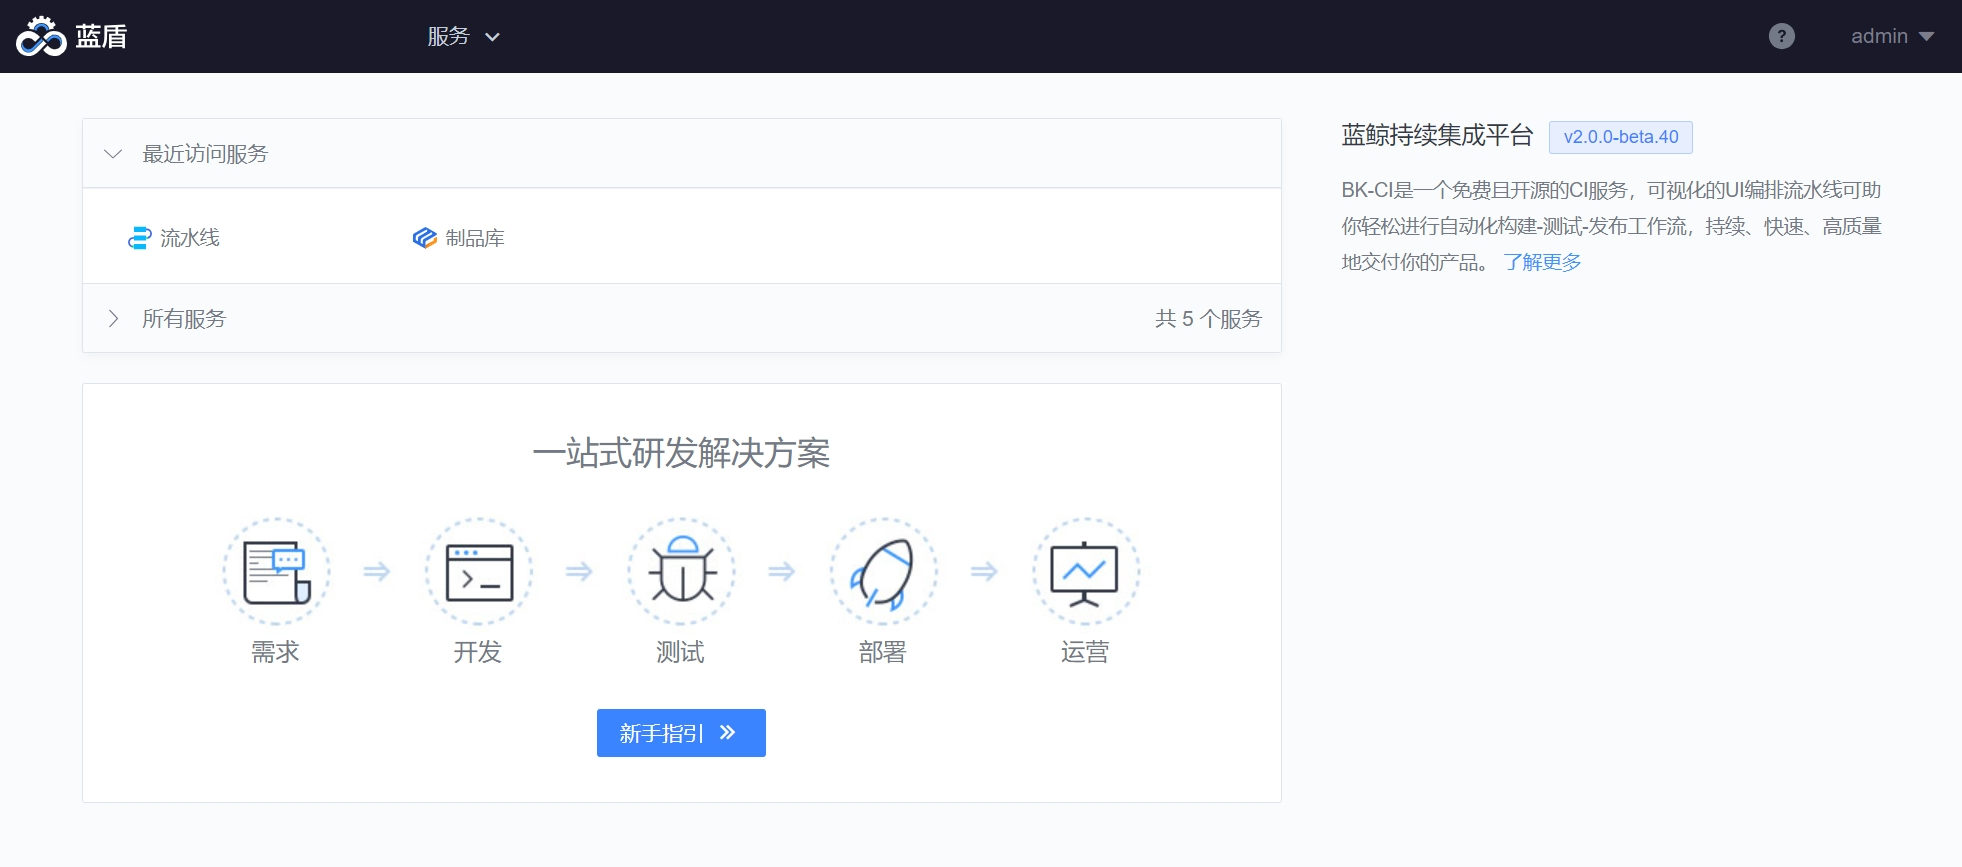
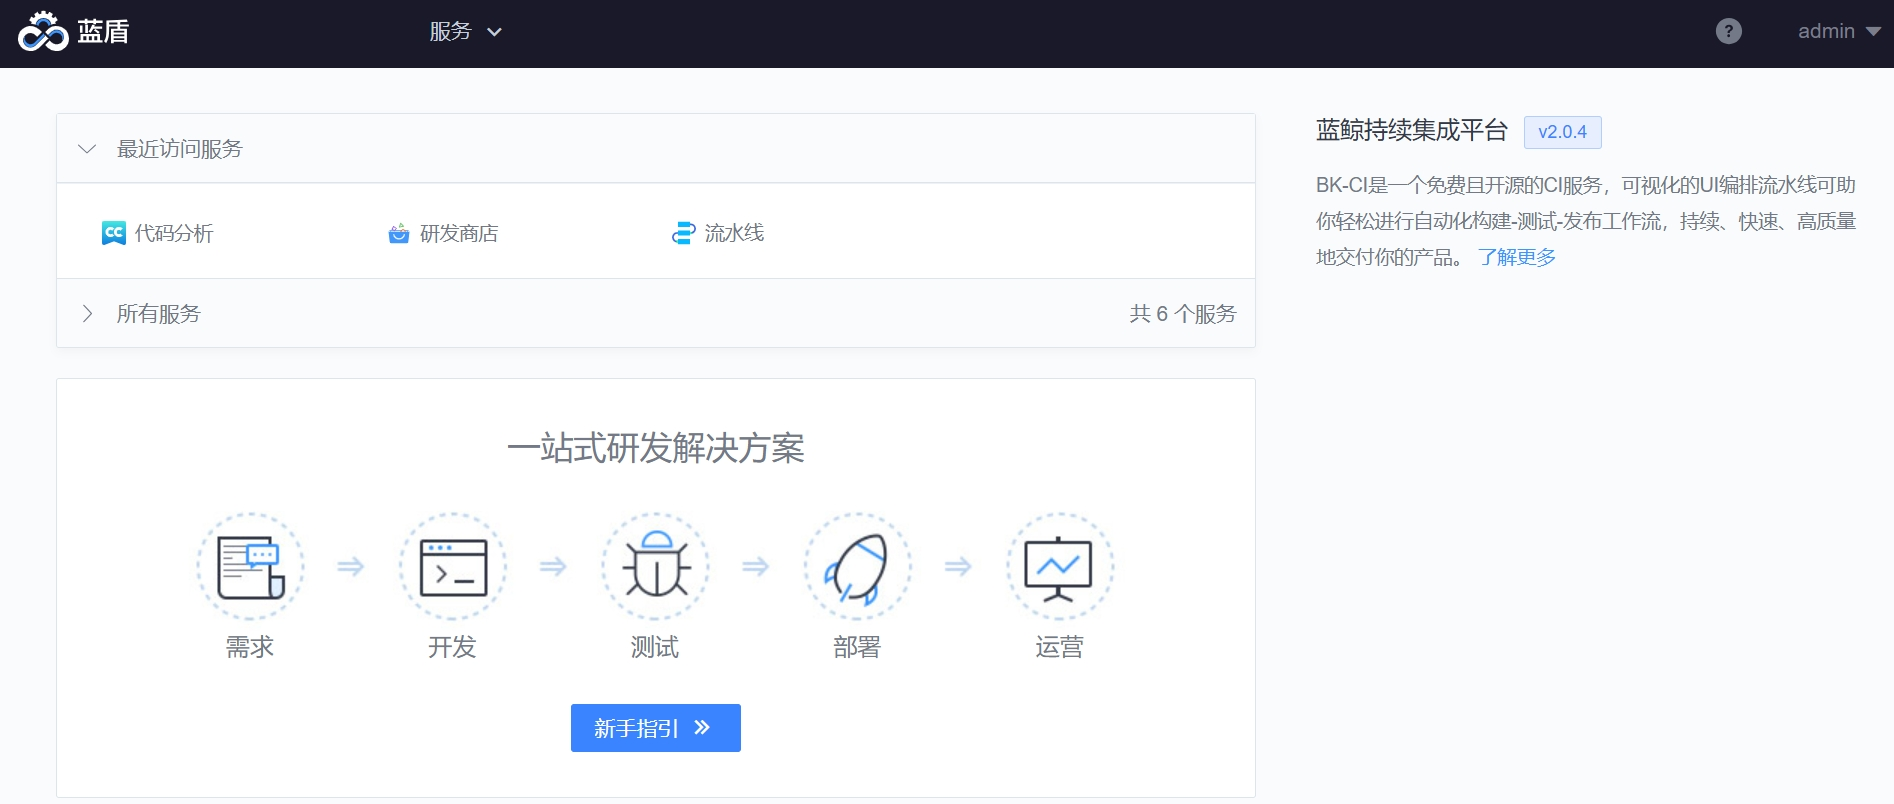
sync github prod-community

diff --git a/ZH/DeploymentGuides/6.2/InstallEnhancePackage/DeployAndInstall/CI-start-V2.md b/ZH/DeploymentGuides/6.2/InstallEnhancePackage/DeployAndInstall/CI-start-V2.md
@@ -4,7 +4,7 @@
 
 本文档适用于在蓝鲸社区版基础套餐中加装蓝鲸持续集成套餐。
 
-蓝鲸持续集成套餐分为 流水线（CI，也称为“蓝盾”）、制品库（Repo）等 2 个系统。
+蓝鲸持续集成套餐分为 流水线（CI，也称为“蓝盾”）、制品库（Repo）、代码检查（CodeCC）等 3 个系统。
 
 ## 流水线（CI）
 ### 资源准备
@@ -72,22 +72,23 @@ IP2 ci(dockerhost)
 部署流程中，会自动在中控机联网下载资源，如果中控机网络受限，可自行下载后传输到预期路径。 
 
 资源列表如下：
-1. CI 安装包（以 `v2.0.0-beta.40` 为例，其他版本请自行替换版本号）：
-  * 预期放置路径： `/data/src/bkci-v2.0.0-beta.40-slim.tar.gz`
-  * 参考下载地址（蓝鲸官网）： https://bkopen-1252002024.file.myqcloud.com/bkci/bkci-v2.0.0-beta.40-slim.tar.gz
-  * 参考下载地址（GitHub）： https://github.com/Tencent/bk-ci/releases/download/v2.0.0-beta.40/bkci-slim.tar.gz （注意修改为预期放置路径的文件名）
+1. CI 安装包（以 `v2.0.4` 为例，其他版本请自行替换版本号）：
+  * 预期放置路径： `/data/src/bkci-v2.0.4-slim.tar.gz`
+  * 参考下载地址（蓝鲸官网）： [bkci-v2.0.4-slim.tar.gz](https://bkopen-1252002024.file.myqcloud.com/bkci/bkci-v2.0.4-slim.tar.gz)，此文件的 MD5 值为：`ca1dbb2bbe493ca640969c39424ca4b6`
+  * 参考下载地址（GitHub）： [bkci-v2.0.4-slim.tar.gz](https://github.com/TencentBlueKing/bk-ci/releases/download/v2.0.4/bkci-slim.tar.gz) （注意修改为预期放置路径的文件名）
 2. rabbitmq_delayed_message_exchange 插件 （版本固定，不能修改）：
  * 预期放置路径: `/data/src/rabbitmq_delayed_message_exchange-3.8.0.ez`
- * 参考下载地址： https://github.com/rabbitmq/rabbitmq-delayed-message-exchange/releases/download/v3.8.0/rabbitmq_delayed_message_exchange-3.8.0.ez
+ * 参考下载地址： [rabbitmq_delayed_message_exchange-3.8.0.ez](https://github.com/rabbitmq/rabbitmq-delayed-message-exchange/releases/download/v3.8.0/rabbitmq_delayed_message_exchange-3.8.0.ez)
 
 ### 快速部署 BKCI
 1. **导入标准运维流程模板**
 
-进入“标准运维”，选择《`蓝鲸`》业务，导入 [部署流程模板](https://bkopen-1252002024.file.myqcloud.com/bkci/bk-ci-deploy-20240219.dat) 。
+进入“标准运维”，选择《`蓝鲸`》业务，导入 [部署流程模板](https://bkopen-1252002024.file.myqcloud.com/bkci/bkci-deploy-202411111447.dat) 。
 2. **执行部署**
 
+
 选择 " [蓝鲸持续集成] [CI]部署或升级流水线” 模板新建任务
->填写蓝鲸中控机 IP 及版本号。版本号填写 **v2.0.0-beta.40**
+>填写蓝鲸中控机 IP 及版本号。版本号填写 **v2.0.4**
 流程中会自动下载重命名安装包，也可手动下载安装包，并传输到中控机上，确保文件路径为 /data/src/bkci-版本号-slim.tar.gz，可自动跳过下载步骤。
 如果出现异常，请查看具体步骤的报错，故障排除后可直接重试对应的步骤。
 
@@ -110,53 +111,48 @@ IP2 ci(dockerhost)
 * [日常维护](../../../../../ZH/DeploymentGuides/6.2/EnhancePackageMaintenance/BKCI/Maintenance.md)
 * [私有构建机方案](../../../../../ZH/DeploymentGuides/6.2/EnhancePackageMaintenance/BKCI/Private-build-setup.md)
 
+## 蓝盾制品库 Repo 部署指南
 
-## 蓝盾制品库Repo部署指南
+本章节适用于在蓝鲸社区版（二进制方式部署）6.2版本 基础套餐中加装蓝鲸持续集成-制品库（Repo）服务
 
+### 资源准备
 
-### 概述
-本文档适用于在蓝鲸社区版（二进制方式部署）6.2版本 基础套餐中加装蓝鲸持续集成-制品库（Repo）服务
-
-### 制品库（Repo）版本部署
-
-#### 资源准备
-
-请按照如下清单准备服务器或虚拟机（暂不支持容器），用于正式部署Repo服务。要求如下
+请按照如下清单准备服务器或虚拟机（暂不支持容器），用于正式部署 Repo 服务。要求如下
 
 - 机器数量： 2（请勿复用蓝鲸基础套餐机器）
 - 要求操作系统： CentOS 7.X （请勿使用其他系统）
 - 建议硬件配置：8 核 16GB （测试环境可使用 8GB 内存，性能略低）
 - 磁盘大小：100GB
 
-#### 准备工作
+### 准备工作
 
-##### 蓝鲸组件依赖
+#### 蓝鲸组件依赖
 
 请先安装蓝鲸社区版 6.2 基础环境。并安装 “权限中心”，“节点管理”，“标准运维”等 SaaS （安装完成可在蓝鲸工作台“应用列表”中看到）。
 
-##### 描述部署拓扑
+#### 描述部署拓扑
 
 - 编辑 install.config，指示 repo 的安装拓扑。参考示例：（请修改 IP3/IP4 等为合适的 IP）
 ```bash
-## 服务端(网关+微服务), 单节点要求最低配置8核16G. 后期可升级节点硬件配置或分散微服务到不同节点。请勿与部署ci(gateway)机器复用
+## 服务端(网关+微服务), 单节点要求最低配置 8 核 16 G. 后期可升级节点硬件配置或分散微服务到不同节点。请勿与部署 ci(gateway) 机器复用
 IP3 repo(gateway)
 IP4 repo(auth),repo(generic),repo(repository),repo(replication),repo(job)
 ```
 - 如需修改配置，请编辑中控机的 `$CTRL_DIR/bin/03-userdef/repo.env` 文件。然后重新执行流程。
 
-##### 配置 ssh 免密
+#### 配置 ssh 免密
 
 在中控机使用 `./configure_ssh_without_pass` 脚本配置 ssh 免密登录。
 
-##### 安装 gse agent
+#### 安装 gse agent
 
-- 蓝鲸 PaaS，打开“节点管理”。点击“agent 管理”界面下的“安装 Agent”按钮，安装“Repo 主机”到 《`蓝鲸`》 业务下。如中控机未安装，需一并安装
-- 管理会自动注册 CMDB。安装成功后，在 CMDB 首页搜索“中控机”及“新增的 Repo 主机”的 IP，搜索结果中对应 IP 的“业务拓扑”应当以“蓝鲸”开头
+- 蓝鲸 PaaS，打开 “节点管理” 。点击 “agent 管理” 界面下的 “安装 Agent” 按钮，安装 “Repo 主机” 到 《`蓝鲸`》 业务下。如中控机未安装，需一并安装
+- 节点管理会自动注册 CMDB。安装成功后，在 CMDB 首页搜索 “中控机” 及 “新增的 Repo 主机” 的 IP，搜索结果中对应 IP 的 “业务拓扑” 应当以 “蓝鲸” 开头
 
-##### yum 源
+#### yum 源
 部署过程中会自动安装 `jq`，此软件来自 EPEL 仓库。请确保 CI 主机已经配置了 EPEL 仓库。
 
-##### 离线环境部署
+#### 离线环境部署（可选）
 部署流程中，需要提前下载资源，下载完毕后传输到中控机指定路径。
 
 资源列表如下：
@@ -165,10 +161,10 @@ IP4 repo(auth),repo(generic),repo(repository),repo(replication),repo(job)
     - 下载地址：[bkrepo_ce-v1.3.24-rc.2.tar.gz](https://bkopen-1252002024.file.myqcloud.com/bkrepo/bkrepo_ce-v1.3.24-rc.2.tar.gz)
     - 请提前下载这个包到中控机/data/src目录下
 
-#### 快速部署
+### 快速部署
 
 1. 导入标准运维流程模板
-    - 进入“标准运维”，选择《`蓝鲸`》业务，下载并导入 [部署流程模板文件](https://bkopen-1252002024.file.myqcloud.com/bkrepo/bkrepo_deploy_sops_1_20240131094014.dat)，此文件md5值为：`c3a975d0ee29e52761cd0ec5e56a61fd` 
+    - 进入“标准运维”，选择《`蓝鲸`》业务，下载并导入 [部署流程模板文件](https://bkopen-1252002024.file.myqcloud.com/bkrepo/bkrepo-deploy-20241108150307.dat)，此文件 MD5 值为：`689b667d835e8f1326268a8a9ac97dea` 
 
 2. 执行部署
     - 从模板 “[蓝鲸持续集成][REPO]部署制品库” 新建任务
@@ -178,7 +174,112 @@ IP4 repo(auth),repo(generic),repo(repository),repo(replication),repo(job)
     - 填写 `制品库版本包Repo Md5值 (${TARGET_REPO_MD5SUM})`，值为：`2b508fff8e444ddd1eb852d5eb77b364`
     - 如果出现异常，请查看具体步骤的报错，故障排除后可直接重试对应的步骤
 
-#### 访问制品库
+### 访问制品库
 
-- 请配置 DNS 系统或本地 hosts 文件。将 `BK_REPO_FQDN` 解析到 `repo(gateway)` 所在的 IP。如配置 `$BK_REPO_GATEWAY_IP0` `$BK_REPO_FQDN`到本机hosts文件
+- 请配置 DNS 系统或本地 hosts 文件。将 `BK_REPO_FQDN` 解析到 `repo(gateway)` 所在的 IP。如配置 `$BK_REPO_GATEWAY_IP0` `$BK_REPO_FQDN`到本机 hosts 文件
 - 域名解析后，即可在蓝盾主页的服务中，打开制品库
+
+## 流水线插件
+蓝鲸精选了一批流水线插件，可以提供更多的能力。更多插件请探索 https://github.com/orgs/TencentBlueKing/repositories?q=ci 。
+
+### 插件信息表
+二进制环境中无法直接通过 作业平台 传输文件，故暂未提供对接 作业平台 的插件。相关改造计划请关注： https://github.com/TencentBlueKing/bk-ci/issues/9450
+
+| 代号（atomCode）          | 插件名称        | 描述                                                                                                                                                                                  |
+| ------------------------- | --------------- | ------------------------------------------------------------------------------------------------------------------------------------------------------------------------------------- |
+| uploadArtifact            | 归档构件        | 本插件将构建机本地的文件归档至流水线仓库或自定义仓库，对产出物进行归档                                                                                                                |
+| uploadReport              | 归档报告        | 可将构建机上的 html 报告归档，同时发送邮件出来                                                                                                                                        |
+| downloadArtifact          | 拉取构件        | 将制品库中的文件拉取到构建机上，支持拉取流水线仓库或自定义仓库                                                                                                                        |
+| checkout                  | Checkout        | checkout 插件为蓝盾平台提供基本的 git 拉取操作，可以拉取所有的 git 仓库                                                                                                               |
+| run                       | RunScript       | Execute the script plugin. Support cross-system use.                                                                                                                                  |
+| sendEmail                 | sendEmail       | Send email to any one                                                                                                                                                                 |
+| SubPipelineExec           | 子流水线调用    | 以同步/异步的方式启动运行指定的项目下的流水线                                                                                                                                         |
+| AcrossProjectDistribution | 跨项目推送构件  | 跨项目上传构件至其他项目自定义仓库                                                                                                                                                    |
+| CodeCCCheckAtom           | CodeCC 代码检查 | 支持 Linux、MacOS、Windows 系统下执行所有 CodeCC 代码检查工具，包括代码缺陷（bkcheck 等）、安全漏洞（敏感信息、高危组件等）、代码规范（CppLint、CheckStyle 等）、圈复杂度、重复率等。 |
+
+### 下载插件部署脚本
+请在中控机执行以下命令
+```bash
+mkdir ~/bin
+curl -sSf https://bkopen-1252002024.file.myqcloud.com/bkci/bkci-atom-install.sh -o ~/bin/bkci-atom-install.sh
+chmod +x ~/bin/bkci-atom-install.sh
+```
+
+### 部署插件
+此操作只能新建插件，每个插件只能上传一次，如果重复执行会报错 `{status": 2100001, "message": "系统内部繁忙，请稍后再试", …}`。
+
+后续如需更新插件，请访问 “蓝盾” —— “研发商店” —— “工作台” 界面，在列表中找到对应插件选择 “升级” 操作。
+
+请在 **中控机** 执行如下命令进行部署：
+``` bash
+cd ~/bin
+./bkci-atom-install.sh
+```
+
+## 蓝盾代码检查CodeCC部署指南
+
+本文档适用于在蓝鲸社区版（二进制方式部署）6.2 版本 基础套餐中加装蓝鲸持续集成-代码检查（CodeCC）服务
+
+### 资源准备
+
+请按照如下清单准备服务器或虚拟机（暂不支持容器），用于正式部署代码检查（CodeCC）服务。要求如下
+
+- 机器数量： 2
+- 要求操作系统： CentOS 7.X （请勿使用其他系统）
+- 建议硬件配置：8 核 32GB （测试环境可使用 16GB 内存，性能略低）
+- 磁盘大小：100GB
+
+### 准备工作
+
+#### 蓝鲸组件依赖
+
+请先安装蓝鲸社区版 6.2 基础环境。并安装 “权限中心”，“节点管理”，“标准运维” 等 SaaS （安装完成可在蓝鲸工作台 “应用列表” 中看到）。
+
+#### 描述部署拓扑
+
+- 编辑 install.config，指示 codecc 的安装拓扑。参考示例：（请修改 IP5/IP6 等为合适的 IP）
+```bash
+# 服务端(网关+微服务), 单节点要求最低配置8核16G. 后期可升级节点硬件配置或分散微服务到不同节点.
+IP5 codecc(gateway)
+IP6 codecc(asyncreport),codecc(codeccjob),codecc(defect)
+IP6 codecc(quartz),codecc(report),codecc(schedule),codecc(task)
+```
+- 如需修改配置，请编辑中控机的 `$CTRL_DIR/bin/03-userdef/codecc.env` 文件。然后重新执行流程。
+
+#### 配置 ssh 免密
+
+在中控机使用 `./configure_ssh_without_pass` 脚本配置 ssh 免密登录。
+
+#### 安装 gse agent
+
+- 蓝鲸 PaaS，打开 “节点管理” 。点击 “agent 管理” 界面下的 “安装 Agent” 按钮，安装 “CodeCC 主机” 到 《`蓝鲸`》 业务下。如中控机未安装，需一并安装
+- 节点管理会自动注册 CMDB。安装成功后，在 CMDB 首页搜索 “中控机” 及 “新增的 CodeCC 主机” 的 IP，搜索结果中对应 IP 的 “业务拓扑” 应当以 “蓝鲸” 开头
+
+#### 离线环境部署（可选）
+部署流程中，需要提前下载资源，下载完毕后传输到中控机指定路径。
+
+资源列表如下：
+1. Repo 安装包（蓝盾6.2版本，对应制品库需使用 `v2.1.1` 版本）：
+    - 预期放置路径： `/data/src/bkcodecc-v2.1.1-slim.tar.gz`
+    - 下载地址：[bkcodecc-v2.1.1-slim.tar.gz](https://bkopen-1252002024.file.myqcloud.com/bkcodecc/bkcodecc-v2.1.1-slim.tar.gz)，此文件 MD5 值为：`8abd8f3cb22594d0297dfceb81fd9203`
+    - 请提前下载这个包到中控机/data/src目录下
+
+### 快速部署
+
+1. 导入标准运维流程模板
+    - 进入“标准运维”，选择《`蓝鲸`》业务，下载并导入 [部署流程模板文件](https://bkopen-1252002024.file.myqcloud.com/bkcodecc/bkcodecc-deploy-20240417101432.dat)，此文件 MD5 值为：`3a40cbce0932e455e7a602abb1f8f437`
+
+2. 执行部署
+    - 从模板`[蓝鲸持续集成][CodeCC]部署或升级代码检查`新建任务
+    - 直接点击下一步。（初次部署勾选全部步骤，后续按需取消）
+    - 填写 `蓝鲸中控机 IP (${bk_controller_ip})` 中控机IP
+    - 填写 `CodeCC 版本号 (${TARGET_CODECC_VERSION})`，值为：`v2.1.1`
+    - 填写 `安装模式 (${INSTALL_MODE})`，使用默认值，`分批滚动更新（多实例时服务不中断）`
+    - 填写 `下载链接模板 (${CODECC_DOWNLOAD_URL_FMT})`，保持值不变
+    - 填写 `CTRL_DIR (${CTRL_DIR})`，保持值不变
+    - 如果出现异常，请查看具体步骤的报错，故障排除后可直接重试对应的步骤
+
+### 访问代码检查（CodeCC）服务
+
+- 请配置 DNS 系统或本地 hosts 文件。将 `$BK_CODECC_FQDN` 解析到 `codecc(gateway)` 所在的 IP。如配置 `$BK_CODECC_GATEWAY_IP0` `$BK_CODECC_FQDN` 到本机 hosts 文件
+- 域名解析后，即可在蓝盾主页的服务中，打开代码检查（CodeCC）服务

diff --git a/ZH/DeploymentGuides/7.2/custom-values.md b/ZH/DeploymentGuides/7.2/custom-values.md
@@ -81,6 +81,8 @@ helmfiles:
 
 03-bkci.yaml.gotmpl  # 部署文件：蓝盾流水线平台
 
+03-bkcodecc.yaml.gotmpl # 部署文件：代码检查平台
+
 monitor.yaml.gotmpl  # 蓝鲸监控日志套餐，一般调用下面的独立文件。
   monitor-storage.yaml.gotmpl  # 监控专用的存储服务
   04-bkmonitor.yaml.gotmpl  # 监控后台
@@ -89,6 +91,8 @@ monitor.yaml.gotmpl  # 蓝鲸监控日志套餐，一般调用下面的独立文
   04-bklog-collector.yaml.gotmpl  # 日志采集器
 
 05-bkapicheck.yaml.gotmpl  # 部署文件：api测试工具
+
+06-bkbscp.yaml.gotmpl # 部署文件：服务配置中心
 ```
 
 ### values 文件
@@ -127,7 +131,7 @@ releases:
 
 # 配置 helm 及 docker 仓库
 ## 添加 charts 仓库
-蓝鲸 7.0 软件产品通过 https://hub.bktencent.com/ 进行分发。
+蓝鲸 V7 软件产品通过 https://hub.bktencent.com/ 进行分发。
 
 请先在 helm 中添加名为 `blueking` 的 charts 仓库：
 ``` bash

diff --git a/ZH/DeploymentGuides/7.2/manual-install-saas.md b/ZH/DeploymentGuides/7.2/manual-install-saas.md
@@ -15,7 +15,7 @@
 | 流程服务（bk_itsm） | 2.7.0 | https://bkopen-1252002024.file.myqcloud.com/saas-paas3/bk_itsm/bk_itsm-V2.7.0.tar.gz |
 | 标准运维（bk_sops） | 3.33.8 | https://bkopen-1252002024.file.myqcloud.com/saas-paas3/bk_sops/bk_sops-V3.33.8.tar.gz |
 | 配置平台 SaaS（bk_cmdb_saas） | 3.14.1-beta1 | https://bkopen-1252002024.file.myqcloud.com/saas-paas3/bk_cmdb_saas/bk_cmdb_saas-V3.14.1-beta1.tar.gz |
-| 节点管理（bk_nodeman） | 2.4.7-rc.1418 | 在中控机部署，期间会自动下载。无需在浏览器里单独下载。 |
+| 节点管理（bk_nodeman） | 2.4.7 | 在中控机部署，期间会自动下载。无需在浏览器里单独下载。 |
 
 
 <a id="paas-svc-redis" name="paas-svc-redis"></a>

diff --git a/ZH/DeploymentGuides/7.2/get-k8s-create-bcsops.md b/ZH/DeploymentGuides/7.2/get-k8s-create-bcsops.md
@@ -242,6 +242,15 @@ done
 常见报错：
 1. `Host key verification failed.`，且开头提示 `REMOTE HOST IDENTIFICATION HAS CHANGED`: 检查目的主机是否重装过。如果确认没连错机器，可以使用 `ssh-keygen -R IP地址` 命令删除 `known_hosts` 文件里的记录。
 
+# 配置所需的内核模块
+
+请在中控机执行如下命令：
+```bash
+node_ips=$(kubectl get nodes -o jsonpath='{.items[*].status.addresses[?(@.type=="InternalIP")].address}')
+for ip in $node_ips; do
+  ssh "$ip" 'echo "br_netfilter"' > /etc/modules-load.d/br_netfilter.conf && modprobe br_netfilter
+done
+```
 
 # 下一步
 

diff --git a/ZH/VersionLog/6.2/v62.md b/ZH/VersionLog/6.2/v62.md
@@ -22,8 +22,9 @@
 |日志平台 |4.6.6 |bklog |后台模块 |
 |日志平台（SaaS）|4.6.6 |bk_log_search |SaaS |
 |日志平台（bkunifylogbeat 采集器） |7.5.1.rc158 |bkunifylogbeat |采集器 |
-|CI-持续集成平台 |敬请期待 |bk-ci |后台模块 |
-|CI-代码分析 |敬请期待 |bk-codecc |后台模块 |
+|CI-持续集成平台 |2.0.4 |bk-ci |后台模块 |
+|CI-制品库 |1.3.24-rc.2 |bk-repo |后台模块 |
+|CI-代码分析 |2.1.1 |bk-codecc |后台模块 |
 |PaaS平台2.0 |2.14.57 |open_paas |后台模块 |
 |API网关 |1.11.3 |bk_apigateway |后台模块 |
 |管控平台 |2.1.3 |gse |后台模块 |

diff --git a/ZH/DeploymentGuides/7.2/install-notice.md b/ZH/DeploymentGuides/7.2/install-notice.md
@@ -22,7 +22,7 @@ scripts/setup_bkce7.sh -i notice
 当浏览器访问“开发者中心”进行部署时，需要提前在浏览器里下载安装包：
 | 名字及 app_code | 版本号 | 下载链接 |
 |--|--|--|
-| 消息通知中心（bk_notice） | 1.5.10 | https://bkopen-1252002024.file.myqcloud.com/saas-paas3/bk_notice/bk_notice-V1.5.10.tar.gz |
+| 消息通知中心（bk_notice） | 1.5.11 | https://bkopen-1252002024.file.myqcloud.com/saas-paas3/bk_notice/bk_notice-V1.5.11.tar.gz |
 
 
 ### 创建应用

diff --git a/ZH/DeploymentGuides/7.2/install-bkce.md b/ZH/DeploymentGuides/7.2/install-bkce.md
@@ -53,13 +53,6 @@ kubectl get sc
   * 如果希望由 node 提供存储，可参考部署详解 [直接创建 localpv](./storage-services.md#localpv)
   * 自行配置其他 sc，并设置为默认。
 
-## 版本补丁
-
-修改 job 版本号为 `0.6.6-beta.6`。
-``` bash
-cd $INSTALL_DIR/blueking/  # 进入工作目录
-sed -i 's/bk-job:.*/bk-job: "0.6.6-beta.6"/' environments/default/version.yaml
-```
 
 <a id="setup_bkce7-i-base" name="setup_bkce7-i-base"></a>
 

diff --git a/ZH/DeploymentGuides/7.2/install-lesscode.md b/ZH/DeploymentGuides/7.2/install-lesscode.md
@@ -5,7 +5,7 @@
 ### 下载安装包
 在 **中控机** 运行：
 ``` bash
-bkdl-7.2-stable.sh -ur latest bk_lesscode=1.1.0-beta.18
+bkdl-7.2-stable.sh -ur latest bk_lesscode
 ```
 
 ### 使用脚本部署
